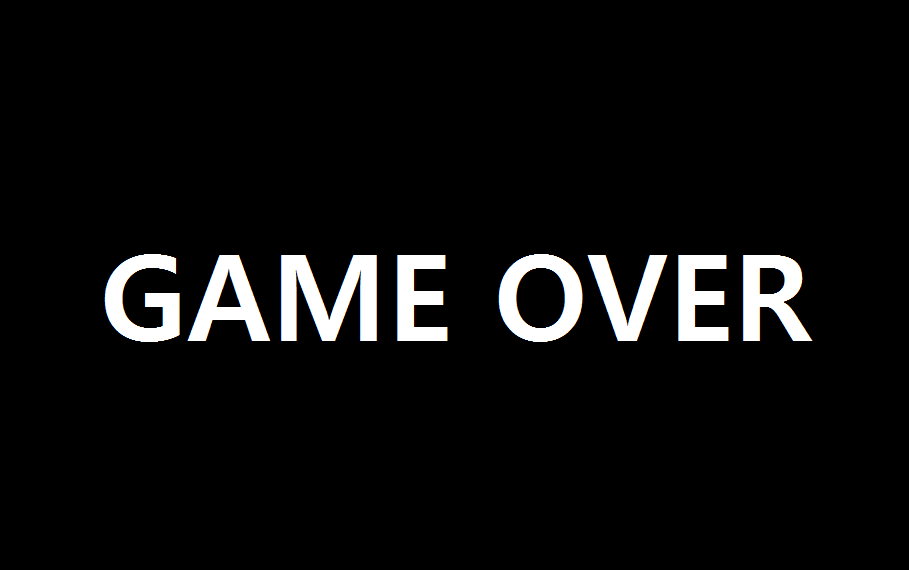
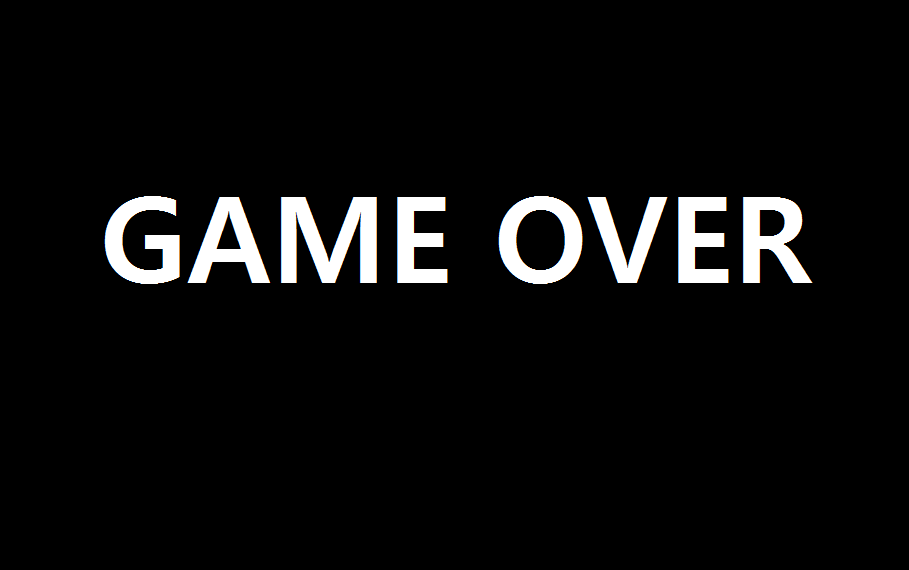
add result text

Changed region(s): [[0.0924, 0.3281, 0.4928, 0.5965], [0.5237, 0.3281, 0.8933, 0.5965]]

diff --git a/js/app.js b/js/app.js
@@ -197,6 +197,9 @@ Life.prototype.render = function() {
   }
   if (this.life === 0) {
     ctx.drawImage(Resources.get('images/gameover.png'), 0, 50);
+    ctx.font = '30px Arial';
+    ctx.fillStyle = 'white';
+    ctx.fillText("You've collected "+gameScore.score+" gems",300,420);
   }
 }
 /**
